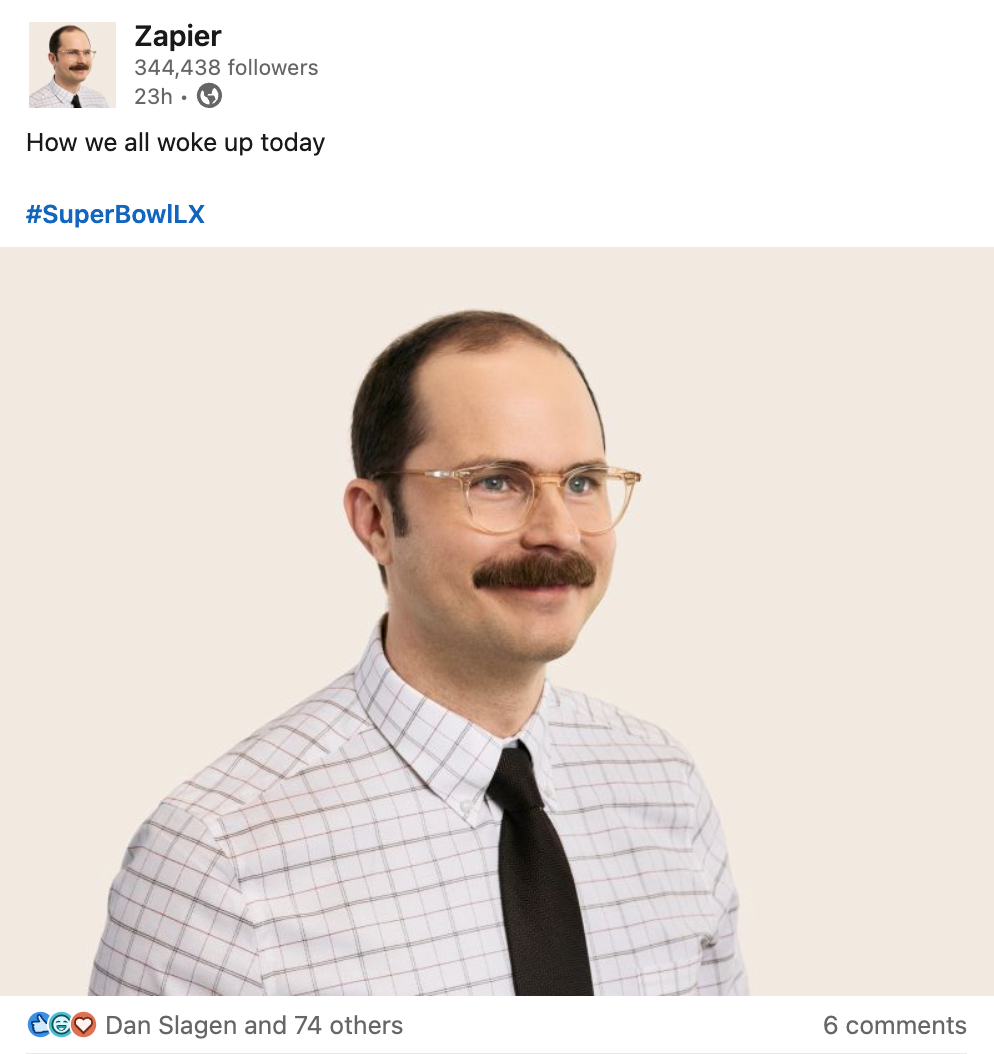
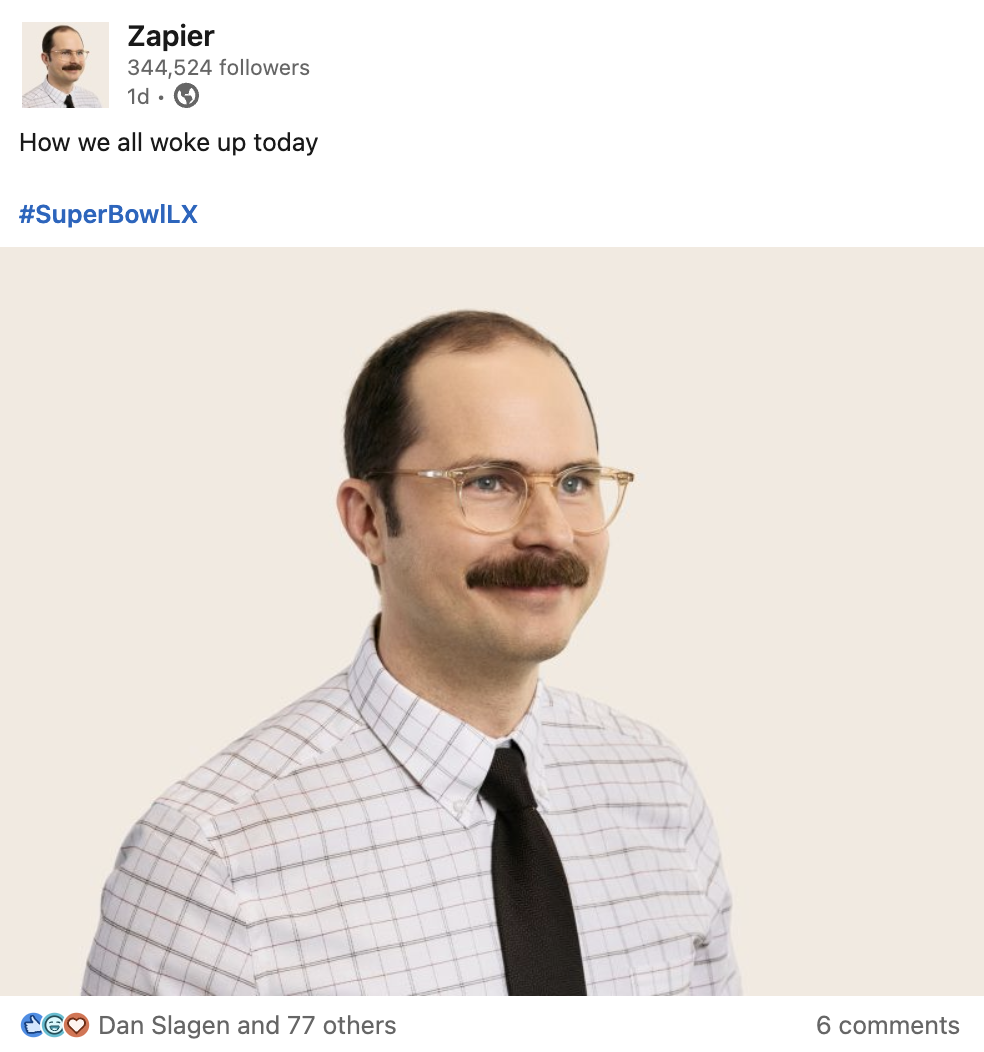
Update al-headshot image and metrics (75 → 77 reactions)

diff --git a/index.html b/index.html
@@ -852,7 +852,7 @@
               <div class="carousel-overlay">
                 <div class="carousel-caption">How we all woke up today #SuperBowlLX</div>
                 <div class="carousel-metrics">
-                  <span>75 reactions</span>
+                  <span>77 reactions</span>
                   <span>6 comments</span>
                 </div>
               </div>
